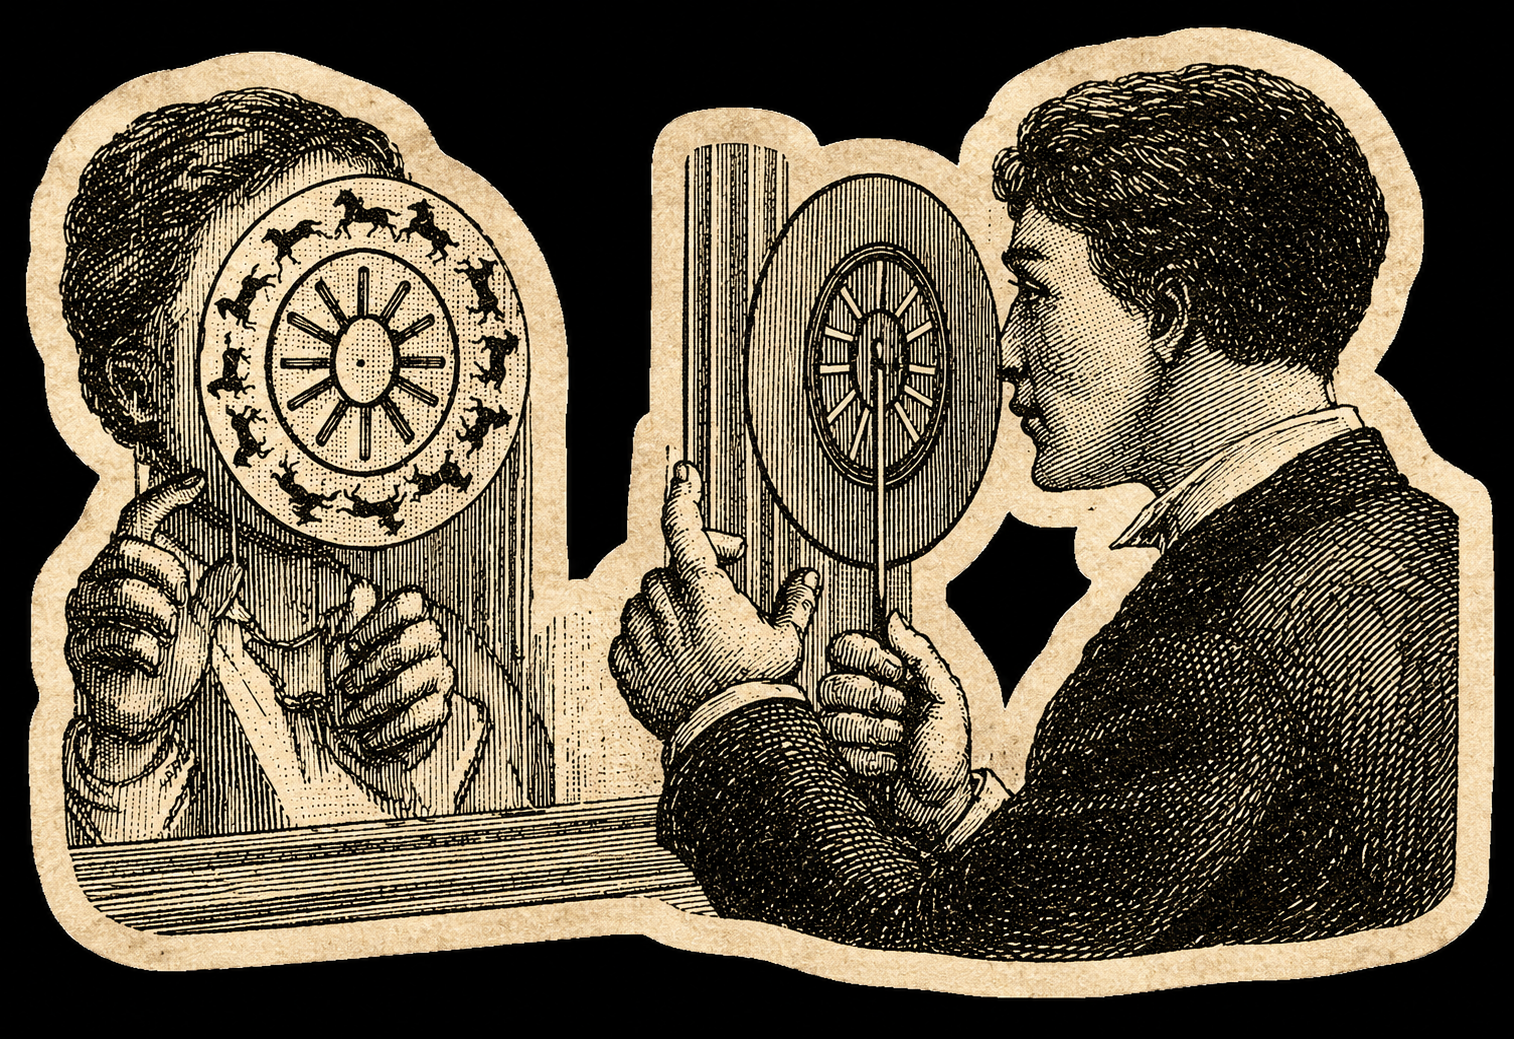
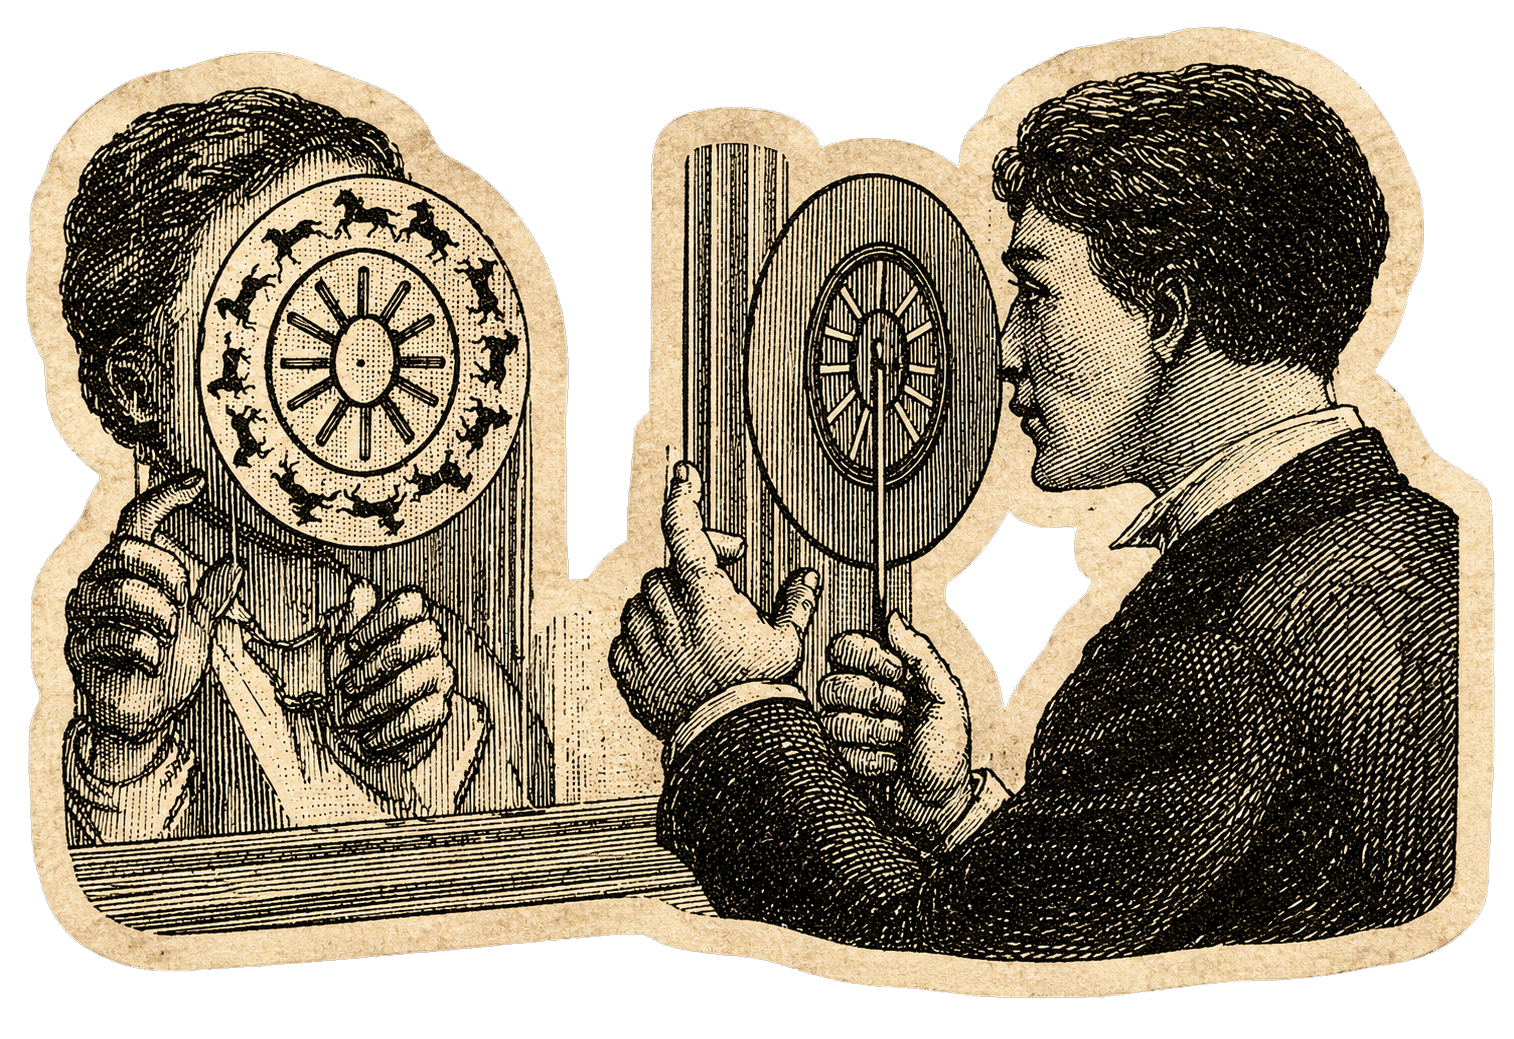
upd data design

Changed region(s): [[0.0, 0.0, 1.0, 1.0], [0.6209, 0.4928, 0.745, 0.6776]]

diff --git a/index.html b/index.html
@@ -72,6 +72,7 @@
                 <ul class="nav__list">
                     <li class="nav__item"><a href="index.html#about" class="nav__link">О студии</a></li>
                     <li class="nav__item"><a href="index.html#how" class="nav__link">Обучение</a></li>
+                    <li><a href="#curriculum" class="nav__link">Программа</a></li>
                     <li class="nav__item"><a href="index.html#works" class="nav__link">Работы</a></li>
                     <li class="nav__item"><a href="index.html#reviews" class="nav__link">Отзывы</a></li>
                     <li class="nav__item"><a href="portfolio.html" class="nav__link nav__link--accent">Портфолио</a></li>
@@ -103,51 +104,103 @@
             <div class="container about__inner">
                 <div class="about__content">
                     <h2 class="section-title">О СТУДИИ</h2>
-                    <p class="about__text">[ТЕКСТ БЛОКА]</p>
+                    <p class="about__text">   Юные аниматоры погружаются в культуру создания движения, начиная с первых оптических приборов XIX века и заканчивая современными цифровыми технологиями.</p>
+                    <p class="about__text">   Мы показываем, как работали зоотропы, фенакистископы и праксиноскопы, 
+                        даём возможность собрать их своими руками. Это не просто теория: через прикосновение к 
+                        первоисточникам ребёнок понимает, что анимация - это не только магия, но и технология, 
+                        стоящая на плечах изобретателей прошлого.</p>
                 </div>
                 <div class="about__photo">
-                    <div class="photo-placeholder">фото</div>
+                    <div class="photo-placeholder"></div>
                 </div>
             </div>
         </section>
 
-        <!-- ========== КАК ПРОХОДИТ ОБУЧЕНИЕ ========== -->
+        <!-- ========== Как проходит обучение? ========== -->
         <section class="steps section" id="how">
             <div class="container">
-                <h2 class="section-title">Как проходит обучение</h2>
+                <h2 class="section-title">Как проходит обучение?</h2>
                 <div class="steps__grid">
                     <!-- Карточка 1 -->
                     <div class="step-card">
                         <div class="step-card__number">1</div>
-                        <h3 class="step-card__title">[ЗАГОЛОВОК ЭТАПА]</h3>
-                        <p class="step-card__desc">[ОПИСАНИЕ ЭТАПА]</p>
+                        <h3 class="step-card__title">Сценарий</h3>
+                        <p class="step-card__desc">Каждый ребёнок сам придумывает героя и сюжет - о чём будет его мультфильм. Учимся превращать идею в историю: что происходит в начале, в чём приключение, чем всё закончится.</p>
                     </div>
                     <!-- Карточка 2 -->
                     <div class="step-card">
                         <div class="step-card__number">2</div>
-                        <h3 class="step-card__title">[ЗАГОЛОВОК ЭТАПА]</h3>
-                        <p class="step-card__desc">[ОПИСАНИЕ ЭТАПА]</p>
+                        <h3 class="step-card__title">Подготовка</h3>
+                        <p class="step-card__desc">Оживает то, что придумали на прошлом занятии - своими руками создаём персонажей и декорации, выбираем технику анимации: рисуем, вырезаем, лепим.</p>
                     </div>
                     <!-- Карточка 3 -->
                     <div class="step-card">
                         <div class="step-card__number">3</div>
-                        <h3 class="step-card__title">[ЗАГОЛОВОК ЭТАПА]</h3>
-                        <p class="step-card__desc">[ОПИСАНИЕ ЭТАПА]</p>
+                        <h3 class="step-card__title">Съемка анимация</h3>
+                        <p class="step-card__desc">Самая волшебная часть - двигаем героев по миллиметру и фотографируем каждое движение. Именно так рождается настоящая покадровая анимация.</p>
                     </div>
                     <!-- Карточка 4 -->
                     <div class="step-card">
                         <div class="step-card__number">4</div>
-                        <h3 class="step-card__title">[ЗАГОЛОВОК ЭТАПА]</h3>
-                        <p class="step-card__desc">[ОПИСАНИЕ ЭТАПА]</p>
+                        <h3 class="step-card__title">Постпродакшен</h3>
+                        <p class="step-card__desc">Добавляем голоса, звуки и музыку, собираем всё в готовый ролик - и мультфильм оживает по-настоящему, со своим собственным звуком.</p>
                     </div>
                 </div>
             </div>
         </section>
 
+
+        <!-- ========== Что входит в программу обучения? ========== -->
+        <section class="curriculum section" id="curriculum">
+            <div class="container">
+                <h2 class="section-title">Что входит в программу обучения?</h2>
+                <div class="curriculum__grid">
+
+                    <div class="topic-card">
+                        <h3 class="topic-card__title">История анимации</h3>
+                        <p class="topic-card__desc">Погрузимся в историю анимации, узнаем, как развивался этот жанр и какие технологии меняли мир мультфильмов.</p>
+                    </div>
+
+
+                    <div class="topic-card topic-card--image">
+                        <img src="4.png" alt="Анимационные приборы" class="topic-card__img">
+                    </div>                                  
+
+
+                    <div class="topic-card">
+                        <h3 class="topic-card__title">Анимационные приборы</h3>
+                        <p class="topic-card__desc">Будем конструировать докинематографические оптические игрушки, узнаем, как работают простые механизмы, и создадим свои собственные устройства для анимации.</p>
+                    </div>
+
+                    <div class="topic-card">
+                        <h3 class="topic-card__title">Основные принципы анимации</h3>
+                        <p class="topic-card__desc">Узнаем, по каким правилам строится правильная, красивая анимация.</p>
+                    </div>
+
+                    <div class="topic-card">
+                        <h3 class="topic-card__title">Практические эффекты</h3>
+                        <p class="topic-card__desc">Почти в каждом мультфильме и фильме есть визуальные эффекты — узнаем, как они создаются.</p>
+                    </div>
+
+                    <div class="topic-card">
+                        <h3 class="topic-card__title">Обработка полученного материала</h3>
+                        <p class="topic-card__desc">Узнаем, сколько кадров нужно для анимации и как они собираются в итоговый видеофайл.</p>
+                    </div>
+
+                    <div class="topic-card">
+                        <h3 class="topic-card__title">Основы фототехники и оптики</h3>
+                        <p class="topic-card__desc">Изучим устройство техники захвата кадра — от первых камер до современных — и научимся правильно выстраивать кадр.</p>
+                    </div>
+
+                </div>
+            </div>
+        </section>
+
+
         <!-- ========== РАБОТЫ УЧЕНИКОВ ========== -->
         <section class="works section" id="works">
             <div class="container">
-                <h2 class="section-title">Работы учеников</h2>
+                <h2 class="section-title">Какие направления анимации ребенок изучит?</h2>
                 <div class="works__grid">
                     <div class="work-card">
                         <div class="work-card__placeholder">скоро здесь появятся работы</div>
@@ -284,7 +337,6 @@
         <div class="container footer__inner">
             <div class="footer__logo">
                 <img src="logo.png" alt="Логотип Кинеограф" class="footer__logo-img">
-                <span>Кинеограф</span>
             </div>
             <div class="footer__contacts">
                 <!-- Иконки соцсетей и контактов -->
@@ -305,7 +357,7 @@
                     </svg>
                 </a>
             </div>
-            <p class="footer__copy">© 2025 Кинеограф. Все права защищены.</p>
+            <p class="footer__copy">© 2026 Кинеограф. Все права защищены.</p>
         </div>
     </footer>
 

diff --git a/styles.css b/styles.css
@@ -314,7 +314,7 @@ ul {
 
 /* === Секция "О студии" === */
 .about {
-    background-image:; 
+    background-image:none; 
     background-size: cover;
     background-position: center;
     background-repeat: no-repeat;
@@ -333,34 +333,63 @@ ul {
 }
 
 .about__text {
+    text-indent: 40px;   /*отступ первой строки */
     font-size: 1.1rem;
     color: var(--color-text-light);
 }
 
-.about__photo {
-    flex: 1 1 300px;
+.about__text::first-letter {
+    font-size: 2em;
+    font-weight: 700;
+    color: var(--color-accent);
+    line-height: 1;
+    /*vertical-align: 0.1em;   подгоняет букву по нижнему краю строки */
+}
+
+
+.about__photo {    
+    flex: auto;
     display: flex;
     justify-content: center;
 }
 
 .photo-placeholder {
-    width: 100%;
-    max-width: 350px;
-    aspect-ratio: 4 / 3;
-    border: 3px dashed var(--color-dark);
+    width: 400px; 
+    height: 400px;
+    background-image: url('4.png');
+    background-size: cover;
+    background-position: center;
+    background-repeat: no-repeat;
     border-radius: var(--radius);
     display: flex;
     align-items: center;
     justify-content: center;
-    font-size: 1.2rem;
-    color: var(--color-text-light);
-    background-color: rgba(43, 45, 66, 0.05);
+    
+    animation: 
+        floatX 11s ease-in-out infinite,
+        floatY 13s ease-in-out infinite,
+        floatRotate 17s ease-in-out infinite;
 }
 
-/* === Секция "Как проходит обучение" === */
+@keyframes floatX {
+    0%, 100% { translate: 0 0; }
+    50%      { translate: 20px 0; }
+}
+
+@keyframes floatY {
+    0%, 100% { translate: 0 0; }
+    50%      { translate: 0 -20px; }
+}
+
+@keyframes floatRotate {
+    0%, 100% { rotate: 0deg; }
+    50%      { rotate: 2deg; }
+}
+
+/* === Как проходит обучение? === */
 .steps__grid {
     display: grid;
-    grid-template-columns: repeat(auto-fit, minmax(240px, 1fr));
+    grid-template-columns: repeat(4, 1fr);
     gap: 30px;
 }
 
@@ -384,6 +413,7 @@ ul {
     color: var(--color-accent);
     margin-bottom: 15px;
     line-height: 1;
+    text-align: right;
 }
 
 .step-card__title {
@@ -391,11 +421,72 @@ ul {
     font-weight: 700;
     color: var(--color-dark);
     margin-bottom: 10px;
+    
 }
 
 .step-card__desc {
     font-size: 0.95rem;
     color: var(--color-text-light);
+    text-align: left;
+}
+
+/* === Что входит в программу обучения? === */
+.curriculum {
+    background-color: var(--color-white);
+}
+
+.curriculum__grid {
+    display: grid;
+    grid-template-columns: repeat(3, 1fr);
+    gap: 30px;
+}
+
+
+
+
+.topic-card--image {
+    padding: 0;              /* убираем внутренний отступ, чтобы фото было на всю карточку */
+    overflow: hidden;         /* обрезает углы фото по border-radius карточки */
+    border-left: none;        /* убираем акцентную полосу, она тут не нужна */
+    display: flex;
+    width: 100%;
+    height: 100%;
+    object-fit: cover;        /* заполняет всю карточку, сохраняя пропорции */
+    min-height: 200px;        /* чтобы карточка не была слишком приплюснутой */
+   
+}
+
+.topic-card--image:hover {
+    transform: none;
+    box-shadow: none;
+}
+
+
+
+.topic-card {
+    background-color: var(--color-bg);
+    padding: 30px;
+    border-radius: var(--radius);
+    border-left: 4px solid var(--color-accent);
+    transition: transform 0.3s ease, box-shadow 0.3s ease;
+}
+
+.topic-card:hover {
+    transform: translateY(-5px);
+    box-shadow: 0 10px 25px rgba(0, 0, 0, 0.08);
+}
+
+.topic-card__title {
+    font-size: 1.15rem;
+    font-weight: 700;
+    color: var(--color-dark);
+    margin-bottom: 10px;
+}
+
+.topic-card__desc {
+    font-size: 0.95rem;
+    color: var(--color-text-light);
+    line-height: 1.5;
 }
 
 /* === Секция "Работы учеников" === */
@@ -635,8 +726,8 @@ ul {
 }
 
 .footer__logo-img {
-    width: 30px;
-    height: 30px;
+    width: 150px;
+    height: auto;
     object-fit: contain;
 }
 
@@ -786,6 +877,12 @@ ul {
         width: 150px;
         height: 45px;
     }
+    .steps__grid {
+        grid-template-columns: repeat(2, 1fr);
+    }
+    .curriculum__grid {
+        grid-template-columns: repeat(2, 1fr);   /* ← добавляешь эту строку */
+    }
 }
 
 /* Мобильные */
@@ -800,6 +897,9 @@ ul {
     .hero__title {
         font-size: 1.8rem;
     }
+    .curriculum__grid {
+        grid-template-columns: 1fr;   /* ← добавь эту строку в блок 480px */
+    }
 
     .btn {
         padding: 12px 24px;
@@ -808,5 +908,8 @@ ul {
 
     .steps__grid {
         grid-template-columns: 1fr;
+    }
+    .curriculum__grid {
+        grid-template-columns: 1fr;   /* ← добавляешь эту строку */
     }
 }
